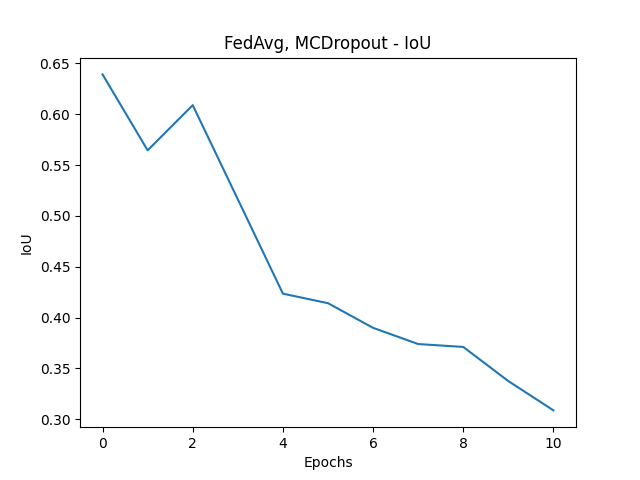
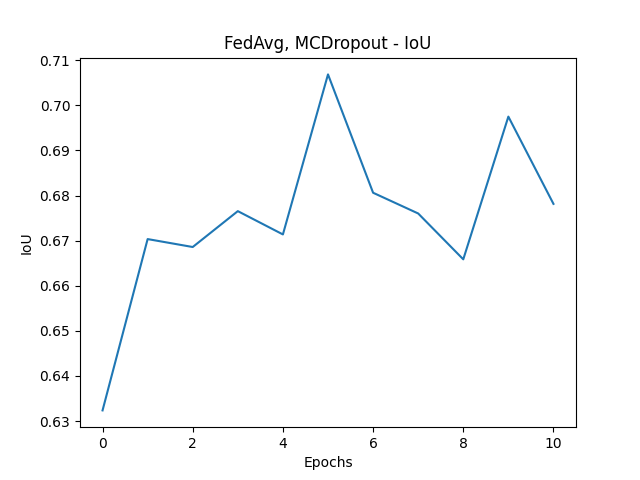
new results

diff --git a/code/Client.py b/code/Client.py
@@ -14,7 +14,7 @@ class Client:
         print(f"{self.name} Device: {self.device}")
         self.train_losses = []
         
-    def train(self, iterations: int, n_datapoints: int = 0):
+    def train(self, iterations: int, n_datapoints: int = 0, labeling_method: str = "true labels"):
         if n_datapoints <= 0:
             n_datapoints = len(self.data_loader.dataset)
             
@@ -34,17 +34,23 @@ class Client:
             total_loss = 0
             num_samples = 0
             
-            for data, _ in tqdm.tqdm(train_dataset, desc=f"Epoch {epoch+1}/{iterations}"):
+            for data, target in tqdm.tqdm(train_dataset, desc=f"Epoch {epoch+1}/{iterations}"):
                 data = data.float().to(self.device)
                 
-                # Monte Carlo Inference to create own labels
-                info = self.model.monte_carlo_inference(data)
-                target = info['mean_prediction']
+                if labeling_method == "monte carlo dropout":
+                    # Monte Carlo Inference to create own labels
+                    info = self.model.monte_carlo_inference(data)
+                    target = info['mean_prediction']
+                    uncertainty = info['uncertainty']  # Jetzt uncertainty statt entropy
+                elif labeling_method == "true labels":
+                    uncertainty = 0
+                elif labeling_method == "contrastive learning":
+                    # TODO: implement me
+                    uncertainty = 0
+                else:
+                    raise Exception(f"Unknown labeling method: {labeling_method}")
+                    
                 target = target.float().to(self.device)
-                uncertainty = info['uncertainty']  # Jetzt uncertainty statt entropy
-                #target = target.float().to(self.device)
-                std = info['std_prediction']
-                #print(std.mean())
                 
                 optimizer.zero_grad()
                 output = self.model(data)
@@ -54,7 +60,7 @@ class Client:
                 scaling_factor = 1.0 / (1.0 + uncertainty)
                 
                 
-                scaled_loss = loss * scaling_factor * 0.1
+                scaled_loss = loss * scaling_factor
                 scaled_loss = scaled_loss.mean()  # Mitteln über alle Pixel
                 
                 scaled_loss.backward()

diff --git a/code/FedAvgController.py b/code/FedAvgController.py
@@ -82,7 +82,7 @@ class FedAvgController:
         return test_metrics
         
     @data_collector
-    def run(self, test: bool, data):
+    def run(self, test: bool, labeling_method: str, data):
         # setting up data collector
         data.experiment = "FedAvg, MCDropout"
         data.plot_data = {"Loss": [], "IoU": []}
@@ -100,7 +100,9 @@ class FedAvgController:
             # train each client
             for i, client in enumerate(self.clients):
                 print(f"\nTraining Client {client.name} ({i + 1}/{self.N_CLIENTS})...")
-                client.train(self.CLIENT_ITERATIONS, n_datapoints=self.N_DATAPOINTS_PER_ROUND)
+                client.train(self.CLIENT_ITERATIONS,
+                             n_datapoints=self.N_DATAPOINTS_PER_ROUND,
+                             labeling_method=labeling_method)
                 
             # fetch client data
             print("\nFetching client data...")
